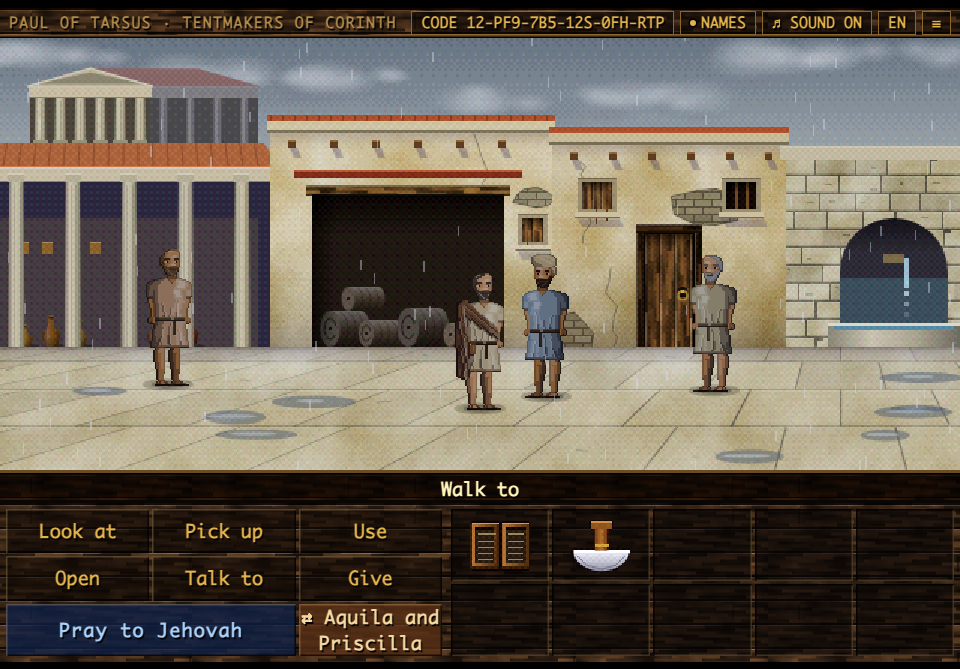
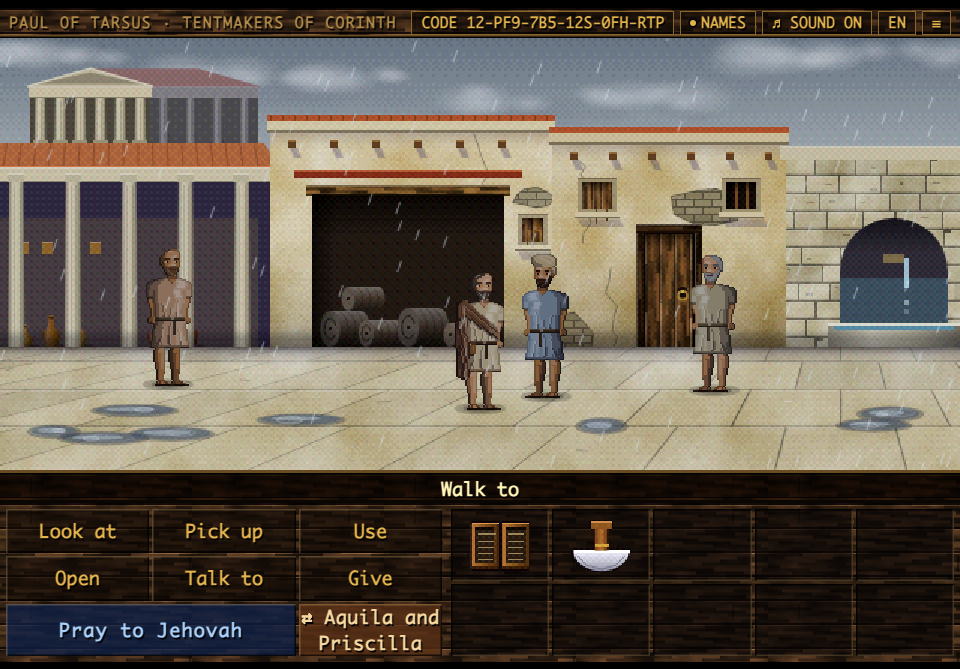
Graphics polish (#75, batch 5): add shared/weather.js rain & wet-surface helper and adopt in Ch. 12 winter scenes

diff --git a/levels/chapter12.js b/levels/chapter12.js
@@ -124,6 +124,7 @@ const haze=(g,w,y0,v)=>{comp(g,'soft-light',v==='w'?.22:.4,()=>{g.fillStyle=lg(g
    Aquila and Priscilla stood, nobody knows (Awake!, as above): the game puts it on this street. The synagogue and the house of Titius
    Justus share a wall (Acts 18:7). A marble lintel naming a synagogue of the Hebrews was found near this road; most date it later than
    Paul's day (study note on Acts 18:1), and the chapter's page says so. In winter it rains; in the spring of the games there are booths. */
+const PUD_ST=SHARED.weather.puddles(640,111,139,16,1202),PUD_CT=SHARED.weather.puddles(320,111,138,8,1206),PUD_CN=SHARED.weather.puddles(320,112,139,6,1214);
 const SEAS=()=>F.cen?'f':F.summer?'u':F.spring?'s':F.shook?'w':'a';
 ART.street12={w:640,q:12,variant:SEAS,
  paint(g,v){const r=rng(1201),W1='#dfd0aa',W2='#d6c59c',ST='#d9cfb4',out=v!=='w';
@@ -164,9 +165,8 @@ ART.street12={w:640,q:12,variant:SEAS,
   if(v==='s')for(const[x,c1,c2]of[[232,'#3f6f8a','#e6dcc0'],[538,'#a8642e','#e6dcc0']]){R(g,x+2,104,40,1.6,'rgba(40,30,60,.3)');wood(g,x,84,1.6,20,'#6a4e2c',1);wood(g,x+40,84,1.6,20,'#6a4e2c',1);
     awning(g,x-2,78,45.6,7,c1,c2,5.7);wood(g,x+2,96,37,2,'#8a683a');for(let i=0;i<4;i++)vessel(g,x+7+i*9,96,2.2,4+i%2,i%2?'#9a5a36':'#b8863c','jug',{noShadow:1})}
   pave(g,0,103,640,144,'#cdc09e',r,{vx:320,vy:58,rows:4,step:44,v:.07});ao(g,0,103,640,6,'t',.35,'#3a3050');
-  if(v==='w'){/* wet stone: the sky lies in it, and water stands in the hollows */
-    comp(g,'screen',.3,()=>{g.fillStyle=lg(g,0,104,0,144,['rgba(200,210,222,.9)','rgba(200,210,222,.2)']);g.fillRect(0,104,640,40)});
-    for(let i=0;i<16;i++){const x=20+r()*600,y=112+r()*28;oval(g,x,y,7+r()*9,1.2+r()*1.2,'rgba(86,98,116,.5)');oval(g,x-1,y-.3,4+r()*5,.6,'rgba(214,222,232,.5)')}}
+  if(v==='w'){/* wet stone: sky sheen, capillary damp along wall bases, and layered puddles */
+    SHARED.weather.wetGround(g,0,104,640,40,{puddles:PUD_ST,dampX:36,dampW:536,dampH:7})}
   else shade(g,[36,104,640,104,640,v==='u'?113:110,36,v==='u'?116:112],SH,v==='u'?.44:.32);
   haze(g,640,103,v);if(v!=='w')pool(g,300,0,340,150,WARM[v],.1,'screen')},
  light:()=>SEAS()==='w'?{amb:'#c9cdd8'}:null,
@@ -174,9 +174,9 @@ ART.street12={w:640,q:12,variant:SEAS,
  draw(g,t){for(let i=0;i<3;i++){const k=((t/700+i*.33)%1);R(g,341.7,84+k*10,1.3,1.4,`rgba(230,246,250,${.7*(1-k)})`)}
   const v=SEAS();if(v==='s')cast(g,[['hx12c',70,116,1],['hx12d',86,119,-1],['hx12e',586,118,-1],['hx12f',352,114,1]]);
   else if(v==='u')cast(g,[['hx12c',78,116,1],['hx12f',600,117,-1]]);else if(v==='a')cast(g,[['hx12d',66,117,1]])},
- front(g,t){if(SEAS()==='w')rain(g,t,640)}};
-/* rain: short slanting strokes that fall and are gone. None of them is long enough to cross anything. */
-function rain(g,t,w,y1){const r=rng(1277),n=Math.round(w*.34);for(let i=0;i<n;i++){const x=r()*w,ph=r(),sp=.9+r()*.5,k=((t/520*sp+ph)%1),y=-6+k*((y1||144)+6);R(g,x-k*5,y,.5,3.4,'rgba(214,224,236,.42)')}}
+ front(g,t){if(SEAS()==='w')SHARED.weather.rain(g,t,640,{puddles:PUD_ST,splashY:[108,140]})}};
+/* rain: delegates to shared/weather.js (short wind-slanted strokes, puddle ripples, damp surfaces) */
+const rain=(g,t,w,y1,o)=>SHARED.weather.rain(g,t,w,Object.assign({y1:y1||144},o||{}));
 
 /* ---------- The workshop of Aquila and Priscilla ---------- */
 /* A room open to the street: a long bench, rolls of goat-hair cloth from Cilicia and of linen, coils of cord on their pegs, steps to
@@ -235,7 +235,7 @@ ART.court12={w:320,q:12,variant:CV,
   if(v==='u'||v==='f')for(const x of[98,140])stool(g,x+4,99.4,34,'#7a5a34');
   for(const[x,c]of[[46,'#9a5a36'],[124,'#8a4a2a']])vessel(g,x,105,3.6,11,c,'jar');foliage(g,272,62,5,13,'#5f7a44',r,50);stroke(g,[274,90,273,74,271,62],'#5a4a36',1);
   pave(g,0,103,320,144,'#cbbf9e',r,{vx:160,vy:60,rows:4,step:42,v:.07});ao(g,0,103,320,6,'t',.35,'#3a3050');
-  if(wet){comp(g,'screen',.3,()=>{g.fillStyle=lg(g,0,104,0,144,['rgba(200,210,222,.9)','rgba(200,210,222,.2)']);g.fillRect(0,104,320,40)});for(let i=0;i<8;i++){const x=20+r()*280,y=112+r()*28;oval(g,x,y,7+r()*8,1.2+r(),'rgba(86,98,116,.5)')}}
+  if(wet)SHARED.weather.wetGround(g,0,104,320,40,{puddles:PUD_CT,dampX:36,dampW:248,dampH:6});
   else shade(g,[0,132,36,104,96,104,60,144,0,144],SH,.42);
   haze(g,320,103,v);if(!wet)pool(g,200,0,220,150,WARM[v],.1,'screen')},
  light:()=>CV()==='w'?{amb:'#c9cdd8'}:null,
@@ -248,7 +248,7 @@ ART.court12={w:320,q:12,variant:CV,
    /* its shade on the floor, as one field under the cloth */
    if(awnDone()){const b0=B.indexOf(1),b1=B.lastIndexOf(1);if(b0>=0)comp(g,'multiply',.34,()=>poly(g,[40+b0*62,105,102+b1*62,105,112+b1*62,138,34+b0*62,138],SH))}});
   if(CV()==='u'&&F.r3)cast(g,[['hx12a',104,111,1],['hx12b',124,112,1],['hx12g',150,111,-1],['hx12h',170,112,1]])},
- front(g,t){if(CV()==='w'&&!(G.room==='court12'&&F.r2))rain(g,t,320)}};
+ front(g,t){if(CV()==='w'&&!(G.room==='court12'&&F.r2))rain(g,t,320,144,{puddles:PUD_CT,splashY:[108,140]})}};
 
 /* ---------- The awning, seen from the side ---------- */
 /* A close view, the game's fourth: the court cut through from the wall of the synagogue (left) to the front of the house (right). A
@@ -415,7 +415,7 @@ ART.cen12={w:320,q:12,variant:()=>F.cen?'f':F.summer?'u':'w',
     hullStrakes(g,H,152,264,70,102,x=>81-5*Math.pow((x-206)/58,2)-(x>236?(x-236)*.22:0),{seed:1214,n:4,wale:'#8c422c'});
     stroke(g,[160,84,176,80,236,80,254,76,264,70],'#c29862',.8);
     for(const x of[170,200,232])poly(g,[x,102,x+3,102,x+8,108,x+5,108],'#5a4226');
-    comp(g,'screen',.3,()=>{g.fillStyle=lg(g,0,104,0,144,['rgba(200,210,222,.9)','rgba(200,210,222,.2)']);g.fillRect(0,104,320,40)})}
+    SHARED.weather.wetGround(g,0,104,320,40,{puddles:PUD_CN,dampX:0,dampW:136,dampH:6})}
   else{/* a ship for Asia at the quay: her stern, and the plank to her; her mast stands beyond the picture's edge */
     const H=[236,84,244,74,258,70,320,68,320,100,262,100,244,96];
     hullStrakes(g,H,236,320,68,100,x=>70+Math.max(0,(262-x)*.42)-(x>280?(x-280)*.05:0),{seed:1215,n:5,wale:'#a2482c'});
@@ -423,7 +423,7 @@ ART.cen12={w:320,q:12,variant:()=>F.cen?'f':F.summer?'u':'w',
     poly(g,[250,100,262,100,246,108,232,108],'#9a7448');stroke(g,[250,100,232,108],'#5a4226',.6);
     shade(g,[136,104,320,104,320,112,136,110],SH,.32)}
   haze(g,320,103,v);if(!wet)pool(g,180,0,240,150,WARM[v],.1,'screen')},
- light:()=>F.summer||F.cen?null:{amb:'#c9cdd8'},draw(){},front(g,t){if(!F.summer&&!F.cen)rain(g,t,320)}};
+ light:()=>F.summer||F.cen?null:{amb:'#c9cdd8'},draw(){},front(g,t){if(!F.summer&&!F.cen)rain(g,t,320,144,{puddles:PUD_CN,splashY:[108,140]})}};
 
 /* ---------- The marketplace, and the judgment seat ---------- */
 /* The marketplace, lined with colonnades and rows of shops (Insight, "Corinth"), seen toward the south, with the rock over it. Near its

diff --git a/shared/weather.js b/shared/weather.js
@@ -1,0 +1,51 @@
+/* Paul of Tarsus: rain, wind slant, puddles, and wet-surface helpers, shared by chapters with rain or storms.
+   Loaded on demand via CHAP[n].needs (see need() in index.html). Registered in shared/pwa.js for offline play.
+
+     puddles(w, y0, y1, n, seed)       deterministic list of [x, y, rx, ry] hollows for a wet floor
+     wetGround(g, x0, y0, w, h, opt)   bakes wet sky sheen, damp wall/curb bases, and layered puddles into a room backdrop
+     rain(g, t, w, opt)                draws short wind-slanted rain streaks, puddle ripples, and subtle ground splash flecks
+                                       (kept short so no stroke reads as a long line crossing an upright) */
+SHARED.weather=(()=>{
+"use strict";
+function puddles(w,y0,y1,n,seed){const r=rng(seed||1279),out=[];
+  for(let i=0;i<n;i++){const x=18+r()*(w-36),y=y0+r()*(y1-y0),rx=6.5+r()*9.5,ry=1.2+r()*1.2;out.push([x,y,rx,ry])}
+  return out}
+/* wetGround: wet paving sheen, capillary damp darkening along wall/curb feet, and puddles with dark wet stone rims */
+function wetGround(g,x0,y0,w,h,o){o=o||{};
+  /* capillary damp darkening rising slightly up the wall base and pooling along the curb */
+  if(o.damp!==false){const dh=o.dampH||6,dx=o.dampX!=null?o.dampX:x0,dw=o.dampW!=null?o.dampW:w;
+    comp(g,'multiply',o.dampA||.38,()=>{
+      g.fillStyle=lg(g,0,y0-dh,0,y0+2,['rgba(52,58,72,0)','rgba(52,58,72,.82)','rgba(42,48,62,.95)','rgba(52,58,72,0)']);
+      g.fillRect(dx,y0-dh,dw,dh+4)});
+    for(const seg of(o.walls||[])){const[wx,wy,ww,wh]=seg;
+      comp(g,'multiply',.34,()=>{g.fillStyle=lg(g,0,wy-wh,0,wy+2,['rgba(46,52,66,0)','rgba(46,52,66,.9)']);g.fillRect(wx,wy-wh,ww,wh+2)})}}
+  /* subtle overcast sky reflection across the wet paving */
+  comp(g,'screen',o.sheen==null?.26:o.sheen,()=>{
+    g.fillStyle=lg(g,0,y0,0,y0+h,['rgba(206,216,228,.88)','rgba(206,216,228,.18)']);
+    g.fillRect(x0,y0,w,h)});
+  /* puddles: damp darkened stone halo, sky-tinted water body, and soft sky glint */
+  for(const[x,y,rx,ry]of(o.puddles||[])){
+    oval(g,x,y+.2,rx+1.6,ry+.5,'rgba(44,50,64,.36)');
+    oval(g,x,y,rx,ry,'rgba(82,96,116,.54)');
+    oval(g,x-rx*.12,y-.25,rx*.62,Math.max(.55,ry*.46),'rgba(212,222,234,.44)')}}
+/* rain: wind-slanted short rain streaks, animated concentric puddle ripples, and brief mist flecks on wet stone */
+function rain(g,t,w,o){o=o||{};const r=rng(o.seed||1277),y1=o.y1||144,n=Math.round(w*(o.density||.42)),
+    wind=o.wind==null?-1.35:o.wind,len=o.len||3.8,col=o.col||'rgba(216,226,238,.46)',spBase=o.speed||490;
+  g.save();g.strokeStyle=col;g.lineWidth=.55;g.beginPath();
+  for(let i=0;i<n;i++){const x0=r()*(w+24)-12,ph=r(),sp=.85+r()*.55,k=((t/spBase*sp+ph)%1),
+      y=-len-2+k*(y1+len+4),x=x0+k*wind*10,dx=wind*(len/3.8);
+    g.moveTo(x,y);g.lineTo(x+dx,y+len)}
+  g.stroke();
+  /* expanding concentric ripples on puddles (radii kept wide enough to never rasterize as a +) */
+  if(o.puddles){for(let i=0;i<o.puddles.length;i++){const[px,py,rx,ry]=o.puddles[i];
+    for(let j=0;j<2;j++){const k=((t/(920+(i%3)*140)+i*.37+j*.5)%1);if(k>.78)continue;
+      const u=k/.78,rrx=1.8+u*Math.min(rx*.72,6.2),rry=Math.max(.5,rrx*.22),ox=(j?-.28:.24)*rx,oy=(j?.14:-.12)*ry;
+      g.strokeStyle=`rgba(228,236,244,${(.52*(1-u)).toFixed(2)})`;g.lineWidth=.45;
+      g.beginPath();g.ellipse(px+ox,py+oy,rrx,rry,0,0,6.2832);g.stroke()}}}
+  /* brief horizontal surface splash glints on wet paving */
+  if(o.splashY){const[sy0,sy1]=o.splashY,sn=Math.round(w*.06);
+    for(let i=0;i<sn;i++){const k=((t/420+i*.29)%1);if(k>.22)continue;
+      const u=k/.22,sx=12+((i*97+Math.floor(t/420)*43)%(w-24)),sy=sy0+((i*53)%Math.max(1,sy1-sy0));
+      R(g,sx-1.2-u,sy,2.4+u*2,.5,`rgba(226,236,244,${(.45*(1-u)).toFixed(2)})`)}}
+  g.restore()}
+return{puddles,wetGround,rain}})();

diff --git a/index.html b/index.html
@@ -1817,7 +1817,7 @@ const CHAP={
   9:{name:'midnight_in_philippi',label:'chapter_nine',title:'midnight_in_philippi_2',salt:0x9D61,src:'levels/chapter9.js',treasure:{name:'cricket_in_the_wall',at:'9-P6X-82V-AE3'}},
   10:{name:'is_it_so',label:'chapter_ten',title:'is_it_so_q',salt:0xA37B,src:'levels/chapter10.js',treasure:{name:'wound_too_far',at:'10-E04-FJ9-Y7P'}},
   11:{name:'unknown_god',label:'chapter_eleven',title:'the_unknown_god',salt:0xB48D,src:'levels/chapter11.js',treasure:{name:'back_at_the_fountain',at:'11-8VM-7EW-T68'}},
-  12:{name:'tentmakers_of_corinth',label:'chapter_twelve',title:'tentmakers_of_corinth_2',salt:0xC59F,src:'levels/chapter12.js',treasure:{name:'cloth_of_his_own_country',at:'12-AXS-T1E-4S6-EEE-J5F'}},
+  12:{name:'tentmakers_of_corinth',label:'chapter_twelve',title:'tentmakers_of_corinth_2',salt:0xC59F,src:'levels/chapter12.js',needs:['weather'],treasure:{name:'cloth_of_his_own_country',at:'12-AXS-T1E-4S6-EEE-J5F'}},
   13:{name:'hall_of_tyrannus',label:'chapter_thirteen',title:'the_hall_of_tyrannus',salt:0xD6B3,src:'levels/chapter13.js',treasure:{name:'pupils_tablet',at:'13-KQC-4NT-ZTX-2SR-Z2V'}},
   14:{name:'two_hours_in_the_theater',label:'chapter_fourteen',title:'two_hours_in_the_theater_2',salt:0xE7C5,src:'levels/chapter14.js',needs:['lanes'],treasure:{name:'kneading_behind_a_shutter',at:'14-JAT-FJH-QJ3-2K1-QBZ'}}};
 const TITLE={level:1,scene:'title',mood:'ancient',amb:{crickets:.5,wind:.35,owl:.4}};

diff --git a/shared/pwa.js b/shared/pwa.js
@@ -7,7 +7,7 @@
                               (the playtest checks this). */
 SHARED.pwa=(()=>{
 "use strict";
-const FILES=['shared/cast.js','shared/lanes.js','shared/logo.js','shared/map.js','shared/pwa.js','shared/scroll.js','shared/splash.js','shared/tablets.js'];
+const FILES=['shared/cast.js','shared/lanes.js','shared/logo.js','shared/map.js','shared/pwa.js','shared/scroll.js','shared/splash.js','shared/tablets.js','shared/weather.js'];
 const SKY=['#2c1c3e','#161026','#0b0812'];
 /* the icon at a size in pixels: a gold P on a night sky. pad is the margin all round, as a part of the size; the 'maskable' icon is
    given a wide one, because a phone may cut it to a circle or a rounded square. */
